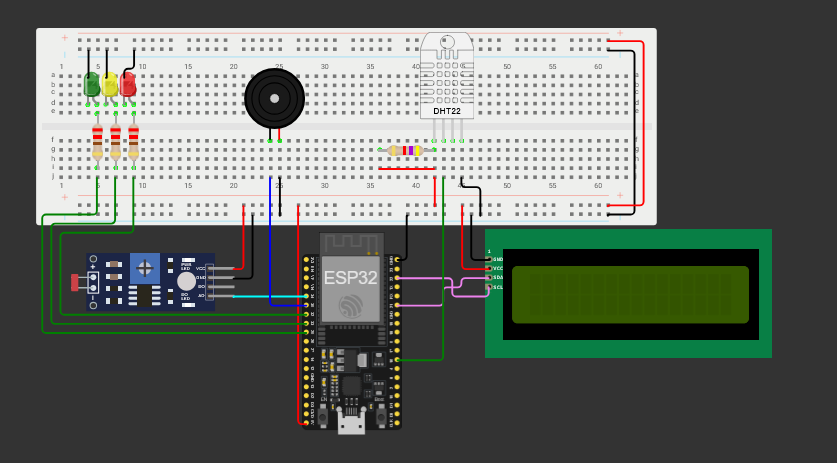
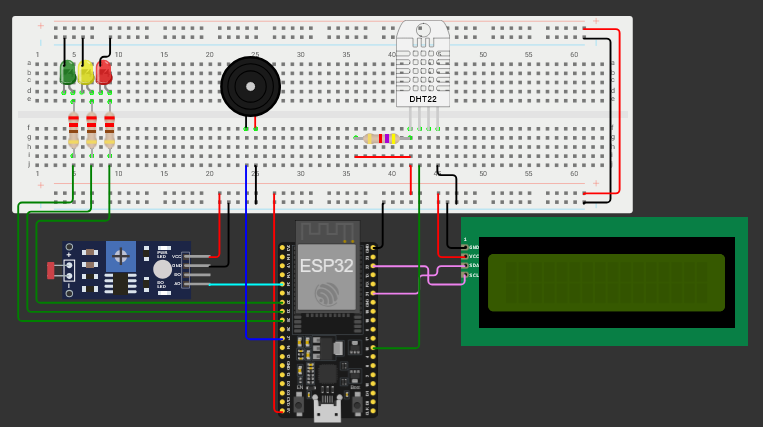
update system schematic and code, implement mymqtt config in md

diff --git a/sourceCode/esp32_monitoring.cpp b/sourceCode/esp32_monitoring.cpp
@@ -1,14 +1,23 @@
-#include <Adafruit_Sensor.h>                      
+#include <WiFi.h>
+#include <PubSubClient.h>
 #include <DHT.h>
 #include <DHT_U.h>
-#include <Wire.h> 
-#include <LiquidCrystal_I2C.h> 
+#include <LiquidCrystal_I2C.h>
+
+const char* ssid = "Wokwi-GUEST";
+const char* password = "";
+const char* mqtt_server = "3.90.205.40";
+const int mqtt_port = 1883;
+const char* mqtt_topic_publish = "esp32/ambiente/dados";
+
+WiFiClient espClient;
+PubSubClient client(espClient);
 
 #define LED_DANGER 32
 #define LED_ALERT 33
 #define LED_OK 25
 
-#define PIEZO 35
+#define PIEZO 27
 
 #define LDR 34
 int luminosity;
@@ -27,7 +36,7 @@ uint32_t delayMS = 2000;
 #define col 16 
 #define lin 2 
 #define ende 0x27 
-
+ 
 LiquidCrystal_I2C lcd(ende,col,lin); 
 unsigned long lastDisplayTime = 0;
 int currentMessageIndex = 0;
@@ -39,6 +48,87 @@ enum State {
 };
 
 State state;
+
+void setup_wifi() {
+  Serial.println("Conectando ao WiFi...");
+  WiFi.begin(ssid, password);
+  while (WiFi.status() != WL_CONNECTED) {
+    delay(500);
+    Serial.print(".");
+  }
+  Serial.println("\nWiFi conectado!");
+  Serial.print("IP: ");
+  Serial.println(WiFi.localIP());
+}
+
+void reconnectMQTT() {
+  while (!client.connected()) {
+    Serial.print("Tentando conectar MQTT...");
+    if (client.connect("ESP32_Placa")) {
+      Serial.println("Conectado!");
+      client.subscribe("esp32/ambiente/buzzer");
+      client.subscribe("esp32/ambiente/led_ok");
+      client.subscribe("esp32/ambiente/led_alert");
+      client.subscribe("esp32/ambiente/led_danger");
+    } else {
+      Serial.print("Falhou, rc=");
+      Serial.print(client.state());
+      Serial.println(" Tentando novamente em 3s");
+      delay(3000);
+    }
+  }
+}
+
+void publicarDados() {
+  String payload = "{";
+  payload += "\"temperatura\": " + String(temperature, 2) + " Cº ,";
+  payload += "\"umidade\": " + String(humidity, 2) + "% ,";
+  payload += "\"luminosidade\": " + String(luminosityMapped) + "% ,";
+  payload += "\"estado\": \"" + String(
+    state == STATE_OK ? "OK" : 
+    state == STATE_ALERT ? "ALERTA" : "PERIGO"
+  ) + "\"";
+  payload += "}";
+
+  if (client.publish(mqtt_topic_publish, payload.c_str())) {
+    Serial.print("Publicado com sucesso: ");
+    Serial.println(payload);
+  } else {
+    Serial.println("Falha ao publicar no MQTT.");
+  }
+}
+
+void callback(char* topic, byte* payload, unsigned int length) {
+  String message;
+  for (unsigned int i = 0; i < length; i++) {
+    message += (char)payload[i];
+  }
+  message.trim();
+
+  Serial.print("Comando recebido no tópico [");
+  Serial.print(topic);
+  Serial.print("]: ");
+  Serial.println(message);
+
+  if (String(topic) == "esp32/ambiente/buzzer") {
+    if (message == "ON") {
+      Serial.println("🔊 Tocando buzina via MQTT...");
+      playPiezo(2000); // toca 2s
+    }
+  }
+
+  else if (String(topic) == "esp32/ambiente/led_ok") {
+    digitalWrite(LED_OK, message == "ON" ? HIGH : LOW);
+  }
+
+  else if (String(topic) == "esp32/ambiente/led_alert") {
+    digitalWrite(LED_ALERT, message == "ON" ? HIGH : LOW);
+  }
+
+  else if (String(topic) == "esp32/ambiente/led_danger") {
+    digitalWrite(LED_DANGER, message == "ON" ? HIGH : LOW);
+  }
+}
 
 void setup() {
   Serial.begin(9600);
@@ -54,10 +144,16 @@ void setup() {
   lcd.backlight(); 
   lcd.clear(); 
 
+  setup_wifi();
+  client.setServer(mqtt_server, mqtt_port);
+  client.setCallback(callback);
+
   checkState();
 }
 
 void loop() {
+  if (!client.connected()) reconnectMQTT();
+  client.loop();
   delay(delayMS);
   switch(state) {
     case STATE_OK:
@@ -72,6 +168,7 @@ void loop() {
       soundDanger();
       break;
   }
+  publicarDados();
   checkState();
 }
 

diff --git a/configs/mymqtt_config.md b/configs/mymqtt_config.md
@@ -1,0 +1,76 @@
+# 🧠 Guia de Teste MQTT – ESP32 Monitoramento de Ambiente
+
+Este documento descreve como configurar, conectar e testar os tópicos MQTT usados pelo código do ESP32 que monitora **temperatura**, **umidade** e **luminosidade**, além de permitir o **controle remoto dos LEDs e do buzzer**.
+
+---
+
+## ⚙ 1. Configuração do Broker MQTT
+
+O ESP32 foi configurado para se conectar ao seguinte broker:
+
+| Parâmetro       | Valor           |
+|-----------------|-----------------|
+| **Servidor**    | `{PUBLIC_IP_VM}`   |
+| **Porta**       | `1883`          |
+| **Cliente ID**  | `ESP32_Placa`   |
+
+Certifique-se de que o broker esteja **ativo** e **acessível publicamente**.  
+Você pode usar ferramentas como [MQTT Explorer](https://mqtt-explorer.com/), `mosquitto_pub`, `mosquitto_sub` ou o painel do **FIWARE / Node-RED / HiveMQ Web Client** para testar.
+
+---
+
+## 📡 2. Tópicos MQTT Usados
+
+### 🧾 Publicação (dados enviados pelo ESP32)
+
+| Tópico                        | Exemplo de Payload |
+|-------------------------------|--------------------|
+| `esp32/ambiente/dados`        | `{ "temperatura": 19.5 Cº , "umidade": 62.3% , "luminosidade": 41%, "estado": "OK" }` |
+
+Esses dados são publicados automaticamente a cada ciclo de leitura (2 segundos, conforme `delayMS`).
+
+---
+
+### 🎛 Assinatura (comandos recebidos pelo ESP32)
+
+O ESP32 escuta os seguintes tópicos e executa ações conforme o payload recebido:
+
+| Tópico | Payload Aceito | Ação Executada |
+|--------|----------------|----------------|
+| `esp32/ambiente/buzzer` | `ON` | Toca o buzzer por 2 segundos |
+| `esp32/ambiente/led_ok` | `ON` / `OFF` | Liga/Desliga o LED Verde |
+| `esp32/ambiente/led_alert` | `ON` / `OFF` | Liga/Desliga o LED Amarelo |
+| `esp32/ambiente/led_danger` | `ON` / `OFF` | Liga/Desliga o LED Vermelho |
+
+> ⚠ Observação: os LEDs também são controlados automaticamente pelo sistema de monitoramento.  
+> Caso queira impedir que os comandos automáticos sobrescrevam os manuais, será necessário adicionar um **modo manual/automático** no código.
+
+---
+
+## 🧠 4. Diagnóstico de Conexão
+
+Durante a inicialização, o monitor serial exibirá mensagens como:
+
+```bash
+
+Conectando ao WiFi...
+WiFi conectado!
+IP: 192.168.0.105
+Tentando conectar MQTT... Conectado!
+Publicado com sucesso: {...}
+
+```
+
+Se aparecer algo como:
+
+```bash
+
+Falhou, rc=-2 Tentando novamente em 3s
+
+```
+
+significa que o ESP32 não conseguiu alcançar o broker MQTT — verifique:
+
+- Endereço IP (mqtt_server)
+- Porta (1883)
+- Conectividade com a internet/Wi-Fi
